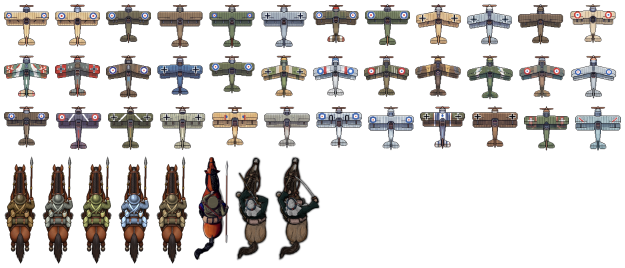
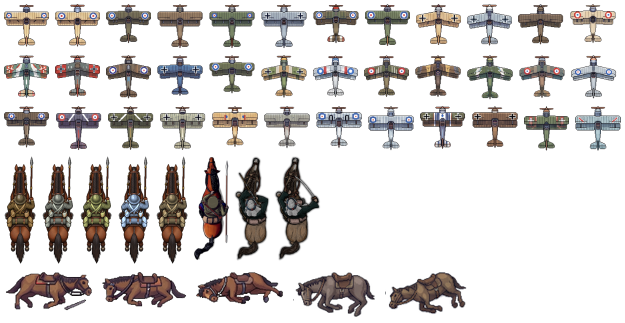
Fallen cavalry lie beside their dead horses

diff --git a/woe-map-server/public/js/skirmish.js b/woe-map-server/public/js/skirmish.js
@@ -16,7 +16,7 @@
  *     they fire (an artillery shell leaves from one of them), and fall silent when both their crew are down;
  *   - tanks: two, rolling out to the line and firing; a knocked-out one goes dark and smokes;
  *   - cavalry: eight horsemen (public/assets/mounts.png, scripts/build-mounts.js) who form up, charge the enemy's line,
- *     fight there a moment, ride back and charge again; a fallen rider lies where he fell;
+ *     fight there a moment, ride back and charge again; a fallen rider lies where he fell, beside his dead horse;
  *   - aircraft: four planes of one livery, flying over the map with their shadows below. Out of a fight they circle
  *     their unit; against ground or ships they make strafing runs over the target (bombers drop bombs on it);
  *     against other aircraft both squadrons mix it up over the fight, each plane chasing an enemy, firing when it
@@ -46,6 +46,8 @@
   const RUN_PX_S = 34, ROLL_PX_S = 26;   // running and rolling pace, screen px a second
   // Horsemen (head to tail, lance and all) and planes (wingspan), screen px before the zoom boost.
   const RIDERS = 8, RIDER_PX = 34, GALLOP_PX_S = 70, TROT_PX_S = 28;
+  const DEAD_HORSE_PX = 32;   // a dead horse lying on its side, nose to tail (screen px before the zoom boost)
+  const CAMELS = new Set(['arab']);   // armies riding camels: no dead horse under their fallen
   // mounts.json riders (with "-2"…: others of the army, taken in turn)
   const RIDER_FOR = { british: 'beige', anzac: 'beige', german: 'grey', american: 'green', french: 'french', russian: 'russian', ottoman: 'ottoman', arab: 'arab' };
   const PLANES = 4;
@@ -148,11 +150,11 @@
         this.r.invalidate();
       } catch (e) { console.warn('Gun and tank sprites not available', e); }
       try {
-        const meta = await fetch('/assets/mounts.json?v=3').then(r => r.json());
-        const base = await PIXI.Assets.load({ src: '/assets/mounts.png?v=3', loadParser: 'loadTextures' });
+        const meta = await fetch('/assets/mounts.json?v=4').then(r => r.json());
+        const base = await PIXI.Assets.load({ src: '/assets/mounts.png?v=4', loadParser: 'loadTextures' });
         const one = f => ({ ...f, t: frame(base, f), len: Math.max(f.w, f.h) });
         this.mounts = { planes: meta.planes.map(one), liveries: meta.liveries,
-          riders: Object.fromEntries(Object.entries(meta.riders).map(([k, f]) => [k, one(f)])) };
+          riders: Object.fromEntries(Object.entries(meta.riders).map(([k, f]) => [k, one(f)])), dead: (meta.dead || []).map(one) };
         this._liv = null;
         this.r.invalidate();
       } catch (e) { console.warn('Cavalry and aircraft sprites not available', e); }
@@ -256,7 +258,9 @@
     /** Machine-gun companies and trench mortars whose army has the art go in as teams (gun and crew in one figure). */
     _teamFor(q) { return q.kind !== 'guns' || !q.kit ? null : (q.type === 'machinegun' && this._frames(q.kit, 'mg')) ? 'mg' : (q.type === 'mortar' && this._frames(q.kit, 'mortar')) ? 'mortar' : null; }
     clear() { for (const q of this.squads.values()) this._drop(q); this.squads.clear(); this.airG.clear(); }
-    _sprites(q) { return [...q.men.map(m => m.sp), ...q.machines.flatMap(x => x.sh ? [x.sp, x.sh] : [x.sp])]; }
+    _sprites(q) { return [...q.men.flatMap(m => m.carcass ? [m.sp, m.carcass] : [m.sp]), ...q.machines.flatMap(x => x.sh ? [x.sp, x.sh] : [x.sp])]; }
+    /** A dead horse's sprite, under every fallen man. */
+    _carcass() { const h = new PIXI.Sprite(); h.eventMode = 'none'; this.deadC.addChildAt(h, 0); return h; }
     _drop(q) { for (const sp of this._sprites(q)) { sp.parent?.removeChild(sp); sp.destroy(); } }
 
     /**
@@ -480,12 +484,14 @@
       if (living.length > want && nowMs >= q.nextDeath) {
         const m = living[Math.floor(Math.random() * living.length)];
         m.dead = true; m.fellAt = nowMs; m.pose = null;
+        m.co += m.jo * 0.12; m.cd += (m.jd - 0.5) * 24;   // the horse goes down a little off his line
         this.aliveC.removeChild(m.sp); this.deadC.addChild(m.sp);
         q.nextDeath = nowMs + 260 + Math.random() * 650;
       } else if (living.length < want) {
         const m = q.men.find(x => x.dead);
         if (m) { m.dead = false; m.pose = null; m.co = m.o; m.cd = m.d; this.deadC.removeChild(m.sp); this.aliveC.addChild(m.sp); }
       }
+      const carcasses = !CAMELS.has(q.kit.army) && this.mounts.dead?.length ? this.mounts.dead : null;
       // Where each rider is bound in this part of the cycle.
       const c = q.cycle;
       const goal = m => c.st === 'charge' || c.st === 'melee' ? [m.o * 0.85, -reach + 3 + m.jd * 6] : [m.o, m.d];
@@ -505,15 +511,26 @@
         const sp = m.sp, rider = pool[m.i % pool.length];
         sp.visible = true;
         if (m.dead) {
-          // Thrown where he fell; the horse is gone.
+          // His horse dead where he fell, and he thrown off it, lying just off its back (the top edge of the art).
           this._pose(m, this._pick(q, m.i, 'dead'));
           const [x, y] = at(m.co, m.cd), age = nowMs - m.fellAt, k = m.fellAt && age < 320 ? age / 320 : 1;
-          sp.position.set(x, y); sp.rotation = m.rot;
+          let mx = x, my = y;
+          const hf = carcasses && carcasses[(m.i + q.id) % carcasses.length];
+          if (hf) {
+            const h = m.carcass || (m.carcass = this._carcass());
+            if (h.texture !== hf.t) { h.texture = hf.t; h.anchor.set(hf.ax, hf.ay); }
+            const hs = DEAD_HORSE_PX / hf.w * boost / s;
+            h.visible = true; h.position.set(x, y); h.rotation = m.rot; h.scale.set(m.flip ? -hs : hs, hs); h.alpha = k;
+            const lx = m.jo * 0.6 * hf.w * hs, ly = -(hf.ay * hf.h * hs + (3 + m.jd * 4) * boost / s);
+            mx = x + lx * Math.cos(m.rot) - ly * Math.sin(m.rot); my = y + lx * Math.sin(m.rot) + ly * Math.cos(m.rot);
+          } else if (m.carcass) m.carcass.visible = false;
+          sp.position.set(mx, my); sp.rotation = m.rot + (hf ? (m.jd - 0.5) * 2.4 : 0);
           const sc = unit * (1.25 - 0.25 * k);
           sp.scale.set(m.flip ? -sc : sc, sc);
           sp.alpha = 0.35 + 0.65 * k;
           continue;
         }
+        if (m.carcass) m.carcass.visible = false;
         if (m.pose !== 'ride') { sp.texture = rider.t; sp.anchor.set(rider.ax, rider.ay); m.pose = 'ride'; }
         sp.alpha = 1;
         const [go, gd] = goal(m);

diff --git a/woe-map-server/scripts/build-mounts.js b/woe-map-server/scripts/build-mounts.js
@@ -1,8 +1,8 @@
 'use strict';
 // Cuts the horsemen and aircraft for the battle scenes (docs/UNITS.md, "Cavalry and aircraft in a fight") out of the
 // user's art into one small atlas: the rider from Cavalry.png in each army's uniform (the Russians ride their own, from
-// Russian Infantry/…-Cavalry.png, and the Arabs their camels, from Arab Infantry/…mounted….png), and the 36
-// biplanes of PlaneSprites.png,
+// Russian Infantry/…-Cavalry.png, and the Arabs their camels, from Arab Infantry/…mounted….png), the dead horses
+// of DeadHorses.png, and the 36 biplanes of PlaneSprites.png,
 // sorted into liveries (planes painted alike, with the same national markings) so a squadron flies matching planes.
 // Usage: node scripts/build-mounts.js "rob assets"
 // Output: public/assets/mounts.png and public/assets/mounts.json
@@ -128,12 +128,25 @@ function rotate(img, a) {
   return { w: n, h: n, px };
 }
 
-const packed = P.pack([planes.slice(0, 12), planes.slice(12, 24), planes.slice(24), riders]);
+// Dead horses, lying on their sides in profile (saddle up, legs down), one a row on the sheet, at full size.
+const deadFile = path.join(dir, 'DeadHorses.png'), dead = [];
+if (fs.existsSync(deadFile)) {
+  const img = P.decodePng(fs.readFileSync(deadFile)), lab = P.blobs(img);
+  // The horses, top to bottom: their big blobs, each with the small bits (a dropped sword) overlapping its rows.
+  const big = lab.boxes.slice(1).filter((b, i) => lab.area[i + 1] >= 400).sort((a, b) => a[1] - b[1]);
+  for (const b of big) {
+    const parts = lab.boxes.slice(1).filter(o => o === b || (o[1] < b[1] + b[3] && o[1] + o[3] > b[1] && !big.includes(o)));
+    dead.push(P.cut(img, parts, 1));
+  }
+}
+
+const packed = P.pack([planes.slice(0, 12), planes.slice(12, 24), planes.slice(24), riders, ...(dead.length ? [dead] : [])]);
 const frame = f => { const p = packed.place.find(q => q.f === f); return { x: p.x, y: p.y, w: f.w, h: f.h, ax: +(f.cx / f.w).toFixed(3), ay: +(f.cy / f.h).toFixed(3) }; };
 fs.writeFileSync(path.join(OUT, 'mounts.png'), P.encodePng(packed.w, packed.h, packed.px));
 fs.writeFileSync(path.join(OUT, 'mounts.json'), JSON.stringify({
   planes: planes.map(frame),
   liveries: Object.fromEntries(Object.entries(LIVERIES).map(([k, [mark, ids]]) => [k, { mark, planes: ids }])),
   riders: Object.fromEntries(riders.map(r => [r.key, frame(r)])),
+  dead: dead.map(frame),
 }, null, 1));
-console.log(`mounts.png ${packed.w}×${packed.h}: ${planes.length} planes in ${Object.keys(LIVERIES).length} liveries, ${riders.length} riders`);
+console.log(`mounts.png ${packed.w}×${packed.h}: ${planes.length} planes in ${Object.keys(LIVERIES).length} liveries, ${riders.length} riders, ${dead.length} dead horses`);

diff --git a/woe-map-server/docs/UNITS.md b/woe-map-server/docs/UNITS.md
@@ -187,7 +187,8 @@ and HeavyMG.png.
 - **Cavalry** (cavalry, dragoons, lancers/uhlans, hussars, reconnaissance): eight horsemen of the nation's army
   form up on the unit's line, charge the enemy's line at the gallop (kicking up dust), wheel among the enemy there
   for a few seconds, ride back and charge again. A troop that has just attacked rides straight out of its unit at
-  the enemy. Riders fall like riflemen (one per 12.5 % lost) and lie where they fell, as the army's casualties.
+  the enemy. Riders fall like riflemen (one per 12.5 % lost) and lie where they fell, as the army's casualties,
+  each beside his dead horse (one of five, from DeadHorses.png; camel riders fall without one).
   British and ANZAC riders wear khaki, Germans field grey, Americans olive, the French horizon blue and the
   Ottomans their own khaki. Russians ride the Russian set's own horseman. Arabs ride camels, half with rifles and
   half with sabres. Their tokens fire no rifle
@@ -212,7 +213,8 @@ and HeavyMG.png.
 
 Atlas: `public/assets/mounts.png`, cut by `node scripts/build-mounts.js "rob assets"` from Cavalry.png (recoloured
 into field grey, olive, horizon blue and Ottoman khaki), the Russian Infantry folder's cavalryman, the Arab Infantry
-folder's two camel riders (turned to face up the page like the horses), and Army Assets/PlaneSprites.png. The 36 planes are sorted by eye into 23
+folder's two camel riders (turned to face up the page like the horses), the five dead horses of DeadHorses.png
+(at full size, lying on their sides, saddle up), and Army Assets/PlaneSprites.png. The 36 planes are sorted by eye into 23
 liveries; the table is at the top of the script.
 
 ### Ships in a fight

diff --git a/woe-map-server/README.md b/woe-map-server/README.md
@@ -628,7 +628,7 @@ German, Ottoman or Russian. Set it on the faction (👥 People → faction → *
 choose from the name.
 - The kit follows the game's date: 1914 dress, steel helmets and the new light machine guns from 1916 (the Ottomans'
   new kit from 1918), greatcoats and winter dress from November to February.
-- Arab cavalry ride camels.
+- Arab cavalry ride camels. A fallen horseman lies beside his dead horse.
 - Stormtroopers go in as the army's assault troops; French colonial troops go in as zouaves.
 
 **Machine-gun companies** and **trench mortars** go in as four gun-and-crew teams, left empty when their crew are
